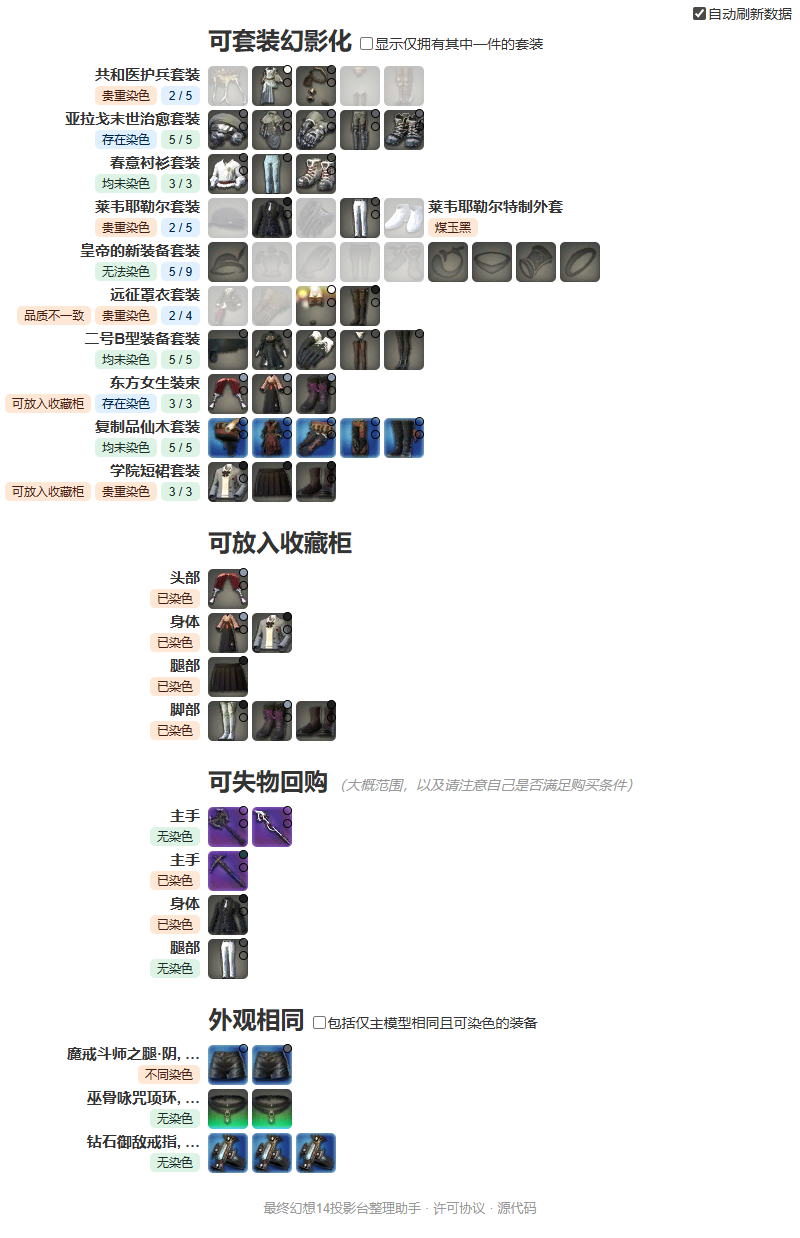
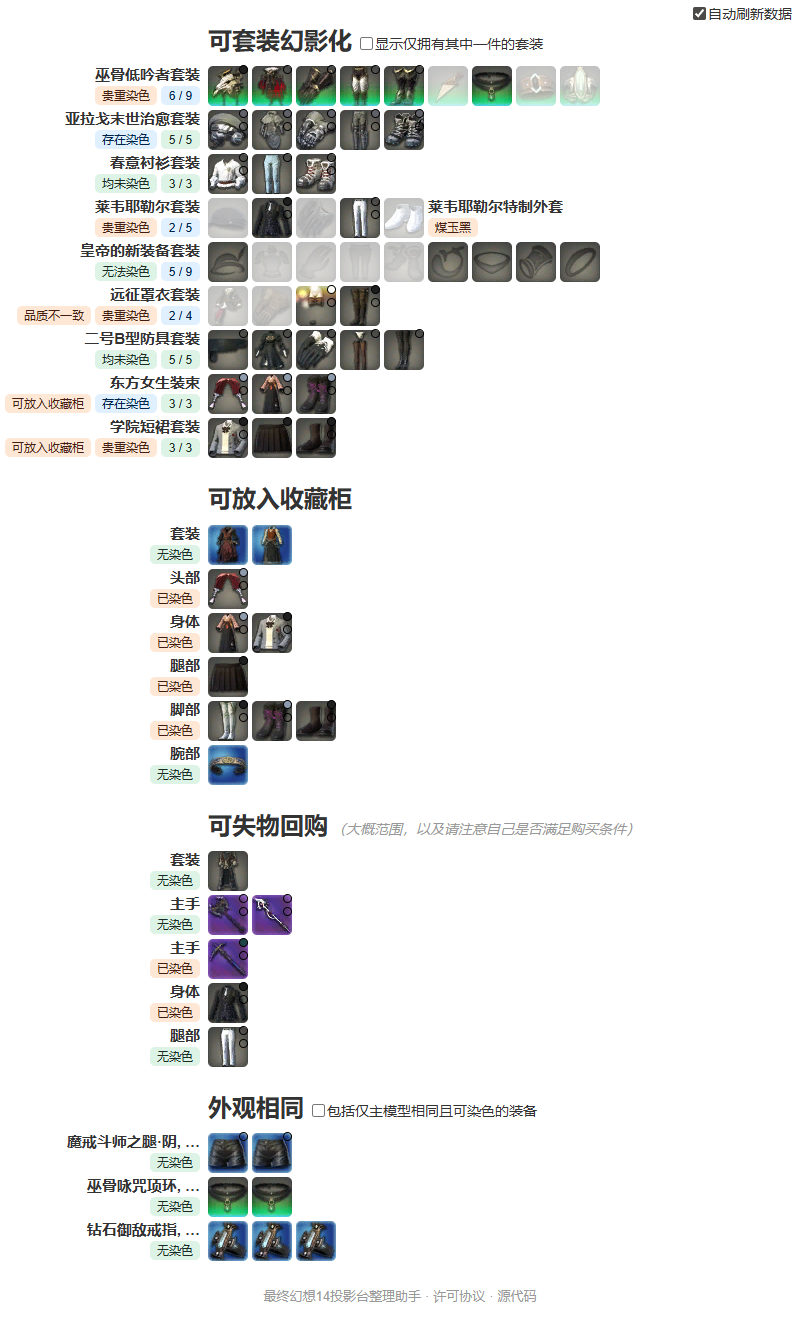
support analyze outfit gears for cabinet and reclaimable

Changed region(s): [[0.0, 0.0, 0.7812, 0.9822], [0.875, 0.0, 1.0, 0.0307]]

diff --git a/web/src/store.ts b/web/src/store.ts
@@ -50,7 +50,7 @@ export enum DyeStatus {
 }
 
 const categories = [
-  '',
+  '套装',
   '主手', '副手',
   '头部', '身体', '手臂', '', '腿部', '脚部',
   '耳部', '颈部', '腕部', '戒指'
@@ -192,10 +192,12 @@ export class Store {
         if (dresserItem === undefined) return;
         let dyed = false;
         const dyes: Dye[] = [];
-        for (let i = 0; i < item.dyeCount; i++) {
-          var dye = dyeTypes[dresserItem.dyes[i]];
-          dyed ||= dye.id > 0;
-          dyes.push(dye);
+        if (group.category !== 0/*套装*/) {
+          for (let i = 0; i < item.dyeCount; i++) {
+            var dye = dyeTypes[dresserItem.dyes[i]];
+            dyed ||= dye.id > 0;
+            dyes.push(dye);
+          }
         }
         return {
           ...item,

diff --git a/client/StaticData.cs b/client/StaticData.cs
@@ -34,6 +34,7 @@ namespace ffxiv_dresser_analyze_client
 
         private readonly ushort[] itemIconIds;
         private readonly HashSet<uint> cabinetItemIdSet;
+        private readonly Dictionary<uint, uint> itemOutfitIdMap;
         private int[]? itemCategories;
 
         public StaticData(string sqpackPath)
@@ -68,6 +69,7 @@ namespace ffxiv_dresser_analyze_client
             var sItem = lumina.GetExcelSheet<Item>()!;
             itemIconIds = sItem.Select(eItem => eItem.Icon).ToArray();
             cabinetItemIdSet = lumina.GetExcelSheet<Cabinet>()!.Select(e => e.Item.RowId).ToHashSet();
+            itemOutfitIdMap = [];
 
             AddJson("/data/outfits", GenerateOutfits());
             AddJson("/data/cabinets", GenerateCabinets());
@@ -114,6 +116,7 @@ namespace ffxiv_dresser_analyze_client
                 {
                     var itemId = (uint)eMirageStoreSetItem.ReadColumn(2 + i);
                     if (itemId == 0) continue;
+                    itemOutfitIdMap[itemId] = id;
                     var eItem = sItem[itemId];
                     var itemName = eItem.Name.ToString();
                     var dyeCount = eItem.DyeCount;
@@ -158,7 +161,15 @@ namespace ffxiv_dresser_analyze_client
                 return 0;
             }).ToArray();
 
+            var sItem = lumina.GetExcelSheet<Item>()!;
+            var outfits = items
+                .Select(eItem => itemOutfitIdMap.TryGetValue(eItem.RowId, out var outfitId) ? outfitId : 0)
+                .Where(outfitId => outfitId != 0)
+                .Distinct()
+                .Select(outfitId => sItem[outfitId]);
+
             var ret = items
+                .Concat(outfits)
                 .Where(eItem => eItem.Name.ByteLength > 0)
                 .Select(eItem =>
                 {
